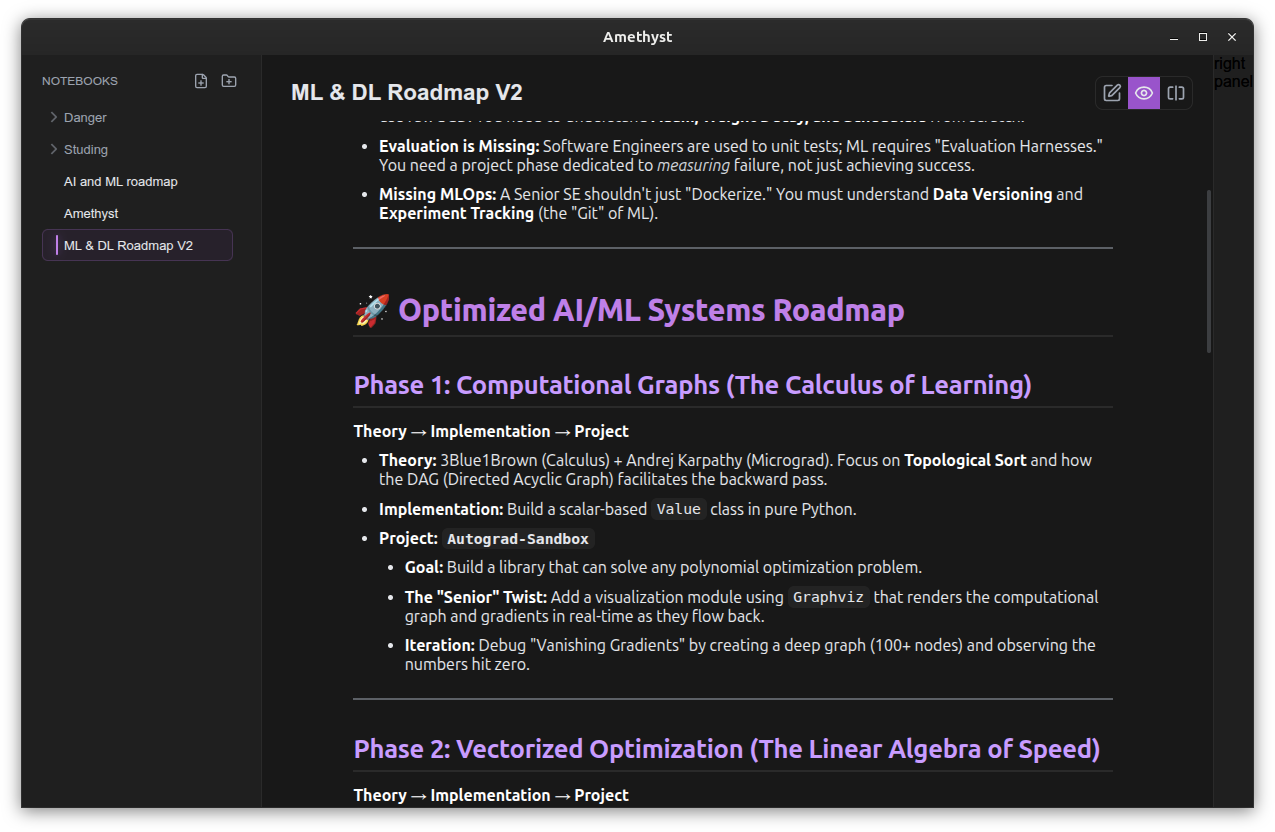
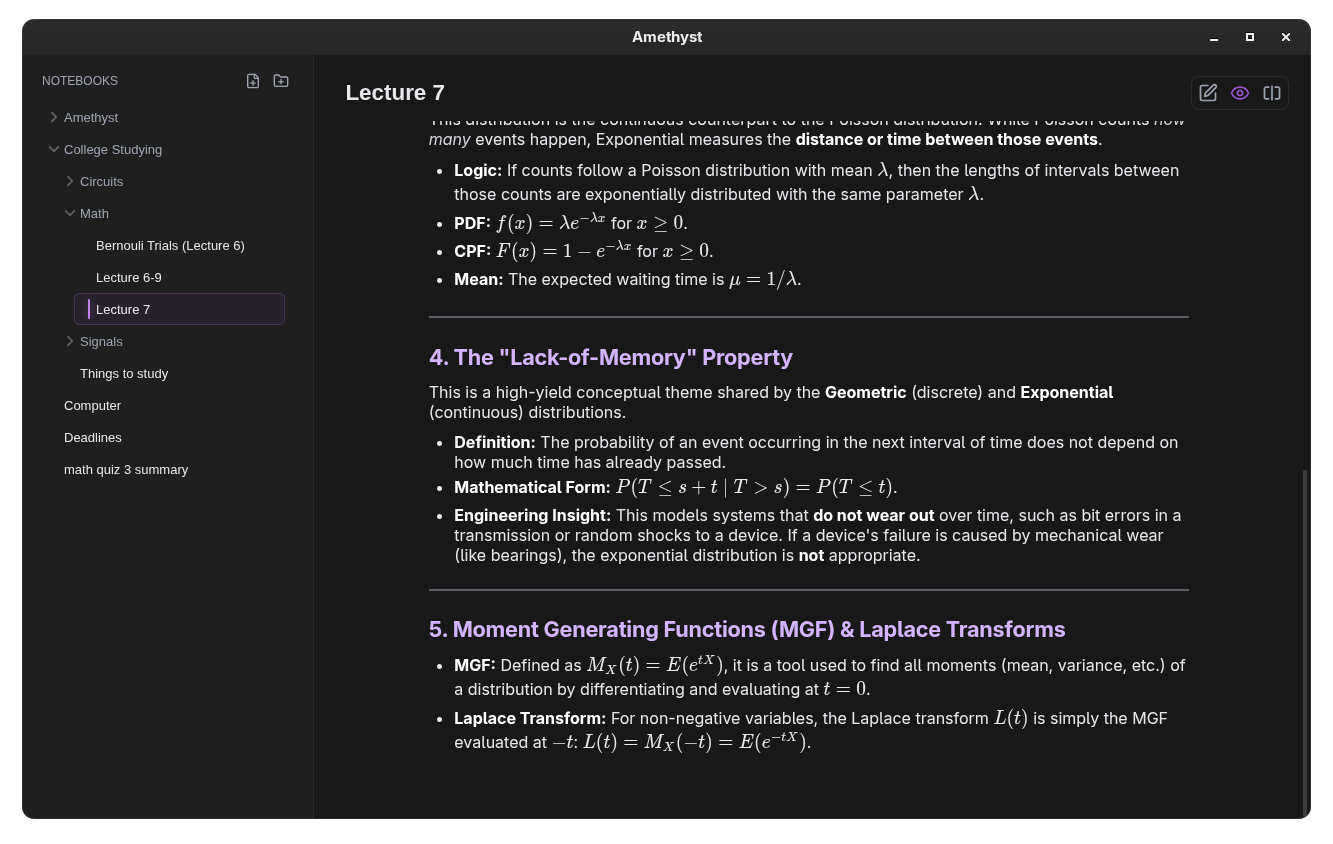
docs: update readme

Changed region(s): [[0.0, 0.0, 1.0, 1.0], [0.0612, 0.4375, 0.1529, 0.5625]]

diff --git a/README.md b/README.md
@@ -1,5 +1,3 @@
-![img](./banner.png)
-
 # Amethyst
 
 ![Version](https://img.shields.io/badge/version-0.5.7-blue.svg)
@@ -7,188 +5,68 @@
 ![Release](https://github.com/abdallah-moh1/amethyst/actions/workflows/release.yml/badge.svg)
 ![CI](https://github.com/abdallah-moh1/amethyst/actions/workflows/ci.yml/badge.svg)
 
-A streamlined, architecture-first Markdown note-taking desktop application built with **Electron, React, Vite, and TypeScript**.
+A local markdown note-taking app built with Electron and React. No cloud, no accounts, just your files.
 
----
+![Screenshot](./screenshots/screenshot2.png)
 
-## 🚀 Current Status (`v0.5.7`)
+## Features
 
-What currently works:
+- Split editor and preview, updates as you type. LaTeX math works.
+- Auto-saves every 2 seconds, saves on note switch too
+- Sidebar file tree, folders sort above notes
+- One note open at a time, no tabs
+- Rename, move, delete files. Deletes go to a local `.trash` folder so nothing is permanent. (No trash UI in the sidebar yet)
+- Keyboard shortcuts and right-click menus for most things
+- Notes currently save to `$HOME/.amethyst` by default. Support for multiple "Facets" (vaults) with custom paths is coming soon
 
-- **Single-Facet Workspace:** Support for a single local root directory.
-- **Recursive Tree View:** Hierarchical navigation with **Drag & Drop** support to rearrange notes and notebooks.
-- **Command & Shortcut System:** A robust internal command registry with a centralized keyboard shortcut manager for high-speed navigation.
-- **Context Menus:** Right-click support for notes, notebooks, and sidebar areas for quick actions (rename, delete, create).
-- **Editor:** CodeMirror 6 integration with **Header Renaming** (click the title in the workspace header to rename).
-- **Preview:** Live Markdown-to-HTML rendering with **LaTeX Math support** and scrollable tables.
-- **Empty State & Onboarding:** A polished "Empty State" view when no note is selected and a built-in **Welcome Note** for new users.
-- **Notifications:** A global **Toast Notification** system providing real-time feedback on app actions.
-- **Real-time Sync:** Main-process filesystem watching (Chokidar) to reflect external changes instantly in the UI.
-- **Trash Reliability:** Improved `.trash` handling with unique trash destinations on Windows and fixed empty notebook delete failures.
-- **Theming:** Built-in dark and light theme loading via CSS variables and JSON.
+## Installation
 
-> **Note:** Synchronized scrolling has been temporarily removed in v0.4.0 to undergo a high-performance refactor scheduled for v0.9.0.
+Download the latest release from the [releases page](https://github.com/abdallah-moh1/amethyst/releases):
 
-## 📸 Screenshots
+| Platform | Format                                            |
+| -------- | ------------------------------------------------- |
+| Windows  | NSIS installer or portable `.exe`                 |
+| macOS    | `.dmg` or `.zip`                                  |
+| Linux    | `.AppImage`, `.deb`, `.rpm`, `.pacman`, `.tar.gz` |
 
-![Amethyst Screenshot](./screenshots/screenshot1.png)
-![Amethyst Screenshot](./screenshots/screenshot2.png)
-![Amethyst Screenshot](./screenshots/screenshot3.png)
+Or build from [source below](#building-from-source).
 
-## 🛠 Tech Stack
+## Development
 
-| Layer          | Technology                  |
-| -------------- | --------------------------- |
-| Desktop Shell  | Electron                    |
-| Renderer       | React                       |
-| Build Tool     | Vite                        |
-| Language       | TypeScript                  |
-| Editor         | CodeMirror 6                |
-| Math Rendering | LaTeX                       |
-| Layout         | react-resizable-panels      |
-| Styling        | CSS variables + JSON themes |
-| Packaging      | electron-builder            |
-
-## 📂 Project Structure
-
-```text
-amethyst/
-├── assets/
-├── electron/
-│   ├── features/
-│   ├── ipc/
-│   ├── services/
-│   ├── themes/
-│   ├── utils/
-│   ├── window/
-│   ├── main.ts
-│   └── preload.mts
-├── screenshots/
-├── shared/
-│   └── types/
-├── src/
-│   ├── app/
-│   ├── core/
-│   │   ├── commands/
-│   │   ├── editor/
-│   │   ├── keybindings/
-│   │   └── markdown/
-│   ├── features/
-│   │   ├── context-menu/
-│   │   ├── empty-state/
-│   │   ├── facet-tree/
-│   │   ├── notebooks/
-│   │   ├── note-editor/
-│   │   ├── note-preview/
-│   │   ├── notes/
-│   │   ├── right-panel/
-│   │   ├── sidebar/
-│   │   ├── theme/
-│   │   ├── toast-notifications/
-│   │   └── workspace/
-│   ├── infrastructure/
-│   │   ├── clients/
-│   ├── layout/
-│   ├── shared/
-│   │   ├── assets/
-│   │   ├── hooks/
-│   │   ├── types/
-│   │   └── utils/
-│   ├── store/
-│   ├── styles/
-│   ├── global.d.ts
-│   ├── main.tsx
-│   └── vite-env.d.ts
-├── ARCHITECTURE.md
-├── CHANGELOG.md
-├── CONTRIBUTING.md
-├── eslint.config.js
-├── index.html
-├── LICENSE
-├── package.json
-├── package-lock.json
-├── README.md
-├── RELEASE_NOTES.md
-├── ROADMAP.md
-├── tsconfig.json
-├── tsconfig.node.json
-└── vite.config.ts
-```
-
-## 🏗 Architecture
-
-Amethyst follows a strict, secure Electron architecture:
-
-- **Main Process:** Manages native windows, recursive filesystem scanning, and real-time file watching.
-- **Preload:** Exposes a narrow, secure API to the renderer through `window.amethyst`.
-- **Command Registry:** Centralized logic for executing app actions consistently via shortcuts, menus, or UI buttons.
-- **Renderer:** Contains the React UI and communicates via IPC wrappers to maintain a clean separation of concerns.
-- **Shared Types:** Keeps the contract between the main process and renderer strictly aligned.
-
-## 💻 Development
-
-### 1. Install Dependencies
+Requires Node.js and npm.
 
 ```bash
+git clone https://github.com/abdallah-moh1/amethyst.git
+cd amethyst
 npm install
-```
-
-### 2. Run Locally
-
-```bash
 npm run dev
 ```
 
-### 3. Run Checks
+| Command             | Description          |
+| ------------------- | -------------------- |
+| `npm run dev`       | Start in dev mode    |
+| `npm run lint`      | Run ESLint           |
+| `npm run lint:fix`  | ESLint with auto-fix |
+| `npm run format`    | Run Prettier         |
+| `npm run typecheck` | TypeScript check     |
+| `npm run check`     | Run all checks       |
+
+## Building from source
 
 ```bash
-npm run check
+npm run build:electron        # build for your current platform
+npm run build:electron:dir    # build into a directory, no installer
 ```
 
-## 📦 Build and Package
+Output goes to `dist/`.
 
-| Command                  | Description                                         |
-| ------------------------ | --------------------------------------------------- |
-| `npm run build`          | Builds the renderer and Electron TypeScript output. |
-| `npm run build:electron` | Packages the app into desktop release artifacts.    |
+## What is coming?
 
-**Current Packaging Targets:**
+You can check the project's [current roadmap](./ROADMAP.md)
 
-- **Windows:** NSIS installer, portable executable
-- **macOS:** DMG, ZIP
-- **Linux:** AppImage, DEB, RPM, pacman (Arch), tar.gz
+> [!NOTE]
+> The roadmap is subject to change. If you'd like to see a specific feature added to Amethyst, feel free to open an issue with the `feature-request` label and describe your idea!
 
-## ⌨ Shortcuts
+## License
 
-| Shortcut       | Action                           |
-| -------------- | -------------------------------- |
-| `Ctrl+S`       | Save the current active note     |
-| `Ctrl+N`       | Create a new note                |
-| `Ctrl+Shift+N` | Create a new notebook            |
-| `Delete`       | Delete selected note or notebook |
-| `F2`           | Rename selected note or notebook |
-
-## 💾 Storage
-
-- **Settings:** Stored in the app's `userData/settings.json`.
-- **Notes (Facets):** Currently targets a **fixed default path** for development. Native directory selection via the system dialog is scheduled for v0.5.0.
-
-## 📚 Documentation
-
-- [ROADMAP.md](./ROADMAP.md) - Release schedule and feature tracking.
-- [ARCHITECTURE.md](./ARCHITECTURE.md) - Technical deep dive.
-
-## 🤝 Contributing
-
-Contributions are welcome! Please see [CONTRIBUTING.md](./CONTRIBUTING.md) for guidelines.
-
-## 👨💻 Author
-
-**Abdallah Mohammad**
-
-- GitHub: [abdallah-moh1](https://github.com/abdallah-moh1)
-- Email: `abdallah.moh.q@gmail.com`
-
-## 📄 License
-
-Amethyst is licensed under the **AGPL-3.0-or-later** license. See [LICENSE](./LICENSE).
+[AGPL-3.0-or-later](LICENSE)
